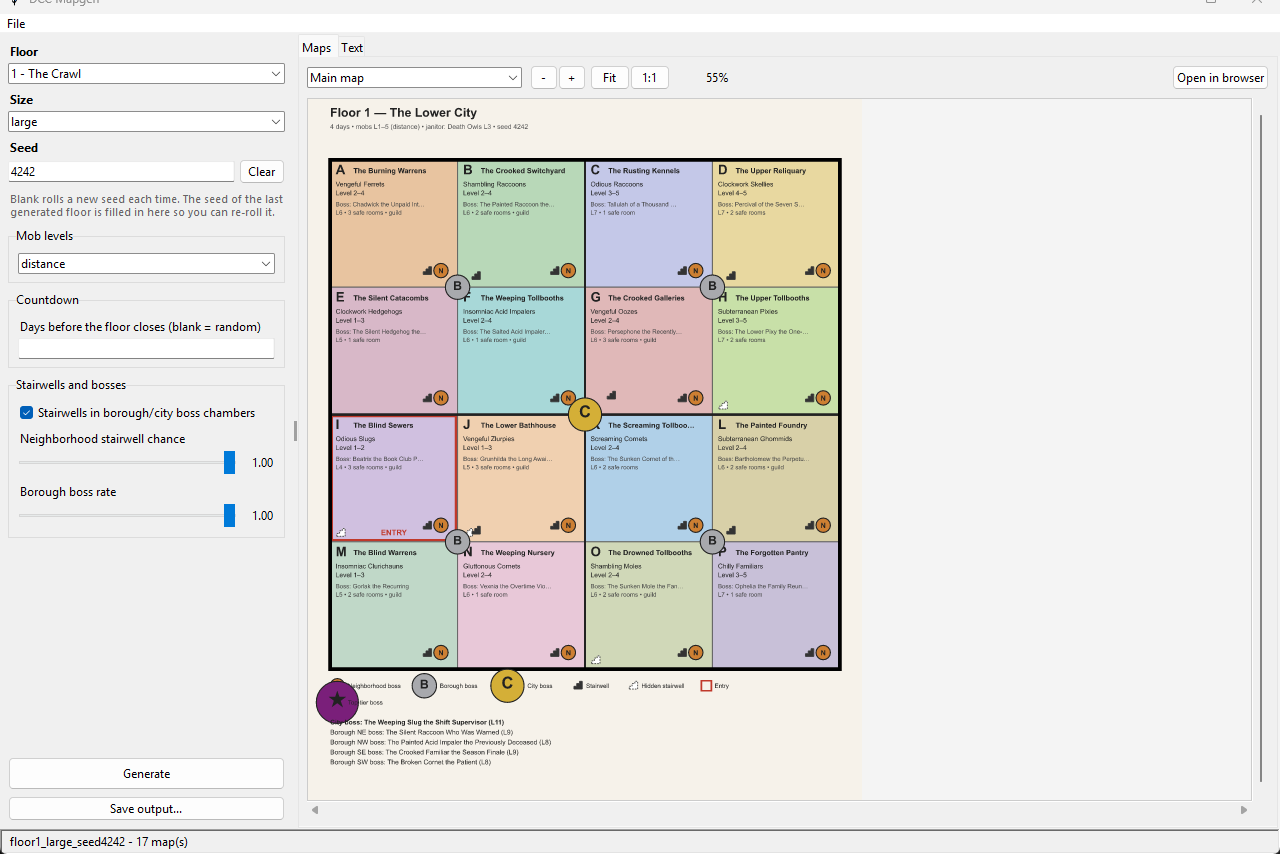
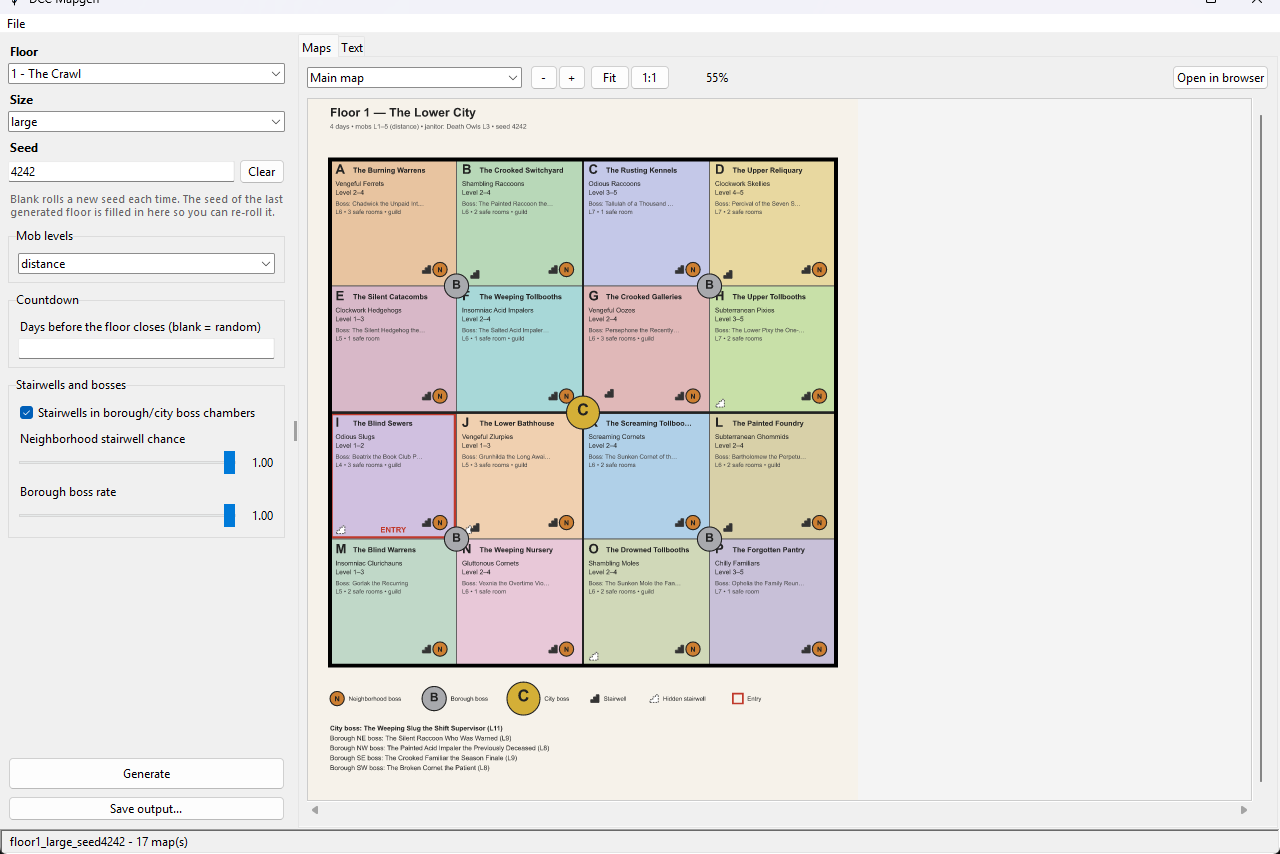
fix: flow the floor 1-2 legend instead of pinning it to fixed offsets
The legend put its entries at hardcoded x offsets across two fixed rows, and the
second row sat only 30px below the first. The top-tier marker is a radius-38
circle, so it reached 8px above its own row's centre line and landed on top of the
first row's neighborhood marker and its "Neighborhood boss" label -- and, being
centred at x+13, swallowed its own label too.

That second row was also drawn unconditionally, so every size below huge showed a
top-tier boss in the key that the map does not contain. Small maps were the worst
case: no borough, city or top boss anywhere on the floor, all four tiers in the key.

The legend is now built from the markers the map actually uses and flowed into as
many rows as the image width needs, with each row spaced by the tallest marker in
it. Laying it out before emitting anything lets the image height follow the result
rather than a fixed 110px allowance.

Only floor 1-2 main maps change: 0 Markdown files and no other floor's or room
map's SVG differs, and the same seed still reproduces the same output.

Also in this commit, so the desktop app ships on Linux too:
- the Linux release job builds and uploads dcc_mapgen_gui alongside the CLI,
  installing Tk and running the smoke test under xvfb since the runner is headless
- the checks moved into dcc_mapgen_gui.selftest(), reachable as --self-test, so CI
  can exercise the *packaged* build; a Tk that failed to bundle only shows up when
[…]

Changed region(s): [[0.25, 0.1827, 0.6562, 0.9133], [0.25, 0.1218, 0.4062, 0.1522]]

diff --git a/dcc_mapgen.py b/dcc_mapgen.py
@@ -871,8 +871,63 @@ def _stair_icon(x, y, hidden=False):
     pts = f"{x},{y+14} {x},{y+9} {x+5},{y+9} {x+5},{y+4} {x+10},{y+4} {x+10},{y} {x+15},{y} {x+15},{y+14}"
     return f'<polygon points="{pts}" fill="{fill}" stroke="#333" stroke-width="1.5"{dash}/>'
 
+LEGEND_GAP = 28        # horizontal space between legend entries
+LEGEND_ROW_GAP = 12    # vertical space between legend rows
+BOSS_R = {"neighborhood": 13, "borough": 22, "city": 30, "top": 38}
+
+
+def _legend_entries(fl) -> List[Tuple[str, object, str]]:
+    """(kind, detail, label) for each marker this map actually uses.
+
+    Only listing what is on the map keeps a small floor from advertising the city
+    and top-tier bosses it does not have -- every size below huge used to show all
+    four boss tiers in the key regardless."""
+    out = [("boss", "neighborhood", "Neighborhood boss")]
+    if fl.borough_bosses:
+        out.append(("boss", "borough", "Borough boss"))
+    if fl.city_bosses:
+        out.append(("boss", "city", "City boss"))
+    if fl.top_boss:
+        out.append(("boss", "top", f"{fl.top_tier_name or 'Top-tier'} boss"))
+    out.append(("stair", False, "Stairwell"))
+    if any(nb.hidden_stairs for nb in fl.neighborhoods):
+        out.append(("stair", True, "Hidden stairwell"))
+    out.append(("entry", None, "Entry"))
+    return out
+
+
+def _legend_half(kind, detail) -> float:
+    """Half the height (and width) of one legend marker."""
+    if kind == "boss":
+        return BOSS_R[detail]
+    return 8.0 if kind == "stair" else 9.0
+
+
+def _legend_width(entry) -> float:
+    kind, detail, label = entry
+    # 6.2 px/char approximates 11px Helvetica closely enough to flow rows with.
+    return 2 * _legend_half(kind, detail) + 8 + len(label) * 6.2 + LEGEND_GAP
+
+
+def _legend_layout(entries, avail: float):
+    """Flow entries into rows no wider than `avail`, as (rows, total height)."""
+    rows, cur, cur_w = [], [], 0.0
+    for e in entries:
+        w = _legend_width(e)
+        if cur and cur_w + w > avail:
+            rows.append(cur)
+            cur, cur_w = [], 0.0
+        cur.append(e)
+        cur_w += w
+    if cur:
+        rows.append(cur)
+    height = sum(max(_legend_half(k, d) for k, d, _ in row) * 2 for row in rows)
+    height += LEGEND_ROW_GAP * (len(rows) - 1)
+    return rows, height
+
+
 def _boss_marker(cx, cy, tier, label):
-    r = {"neighborhood": 13, "borough": 22, "city": 30, "top": 38}[tier]
+    r = BOSS_R[tier]
     color = {"neighborhood": "#cd7f32", "borough": "#a8a9ad", "city": "#d4af37", "top": "#7a1f7a"}[tier]
     out = [f'<circle cx="{cx}" cy="{cy}" r="{r}" fill="{color}" stroke="#222" stroke-width="2"/>']
     glyph = {"neighborhood": "N", "borough": "B", "city": "C", "top": "★"}[tier]
@@ -883,7 +938,10 @@ def render_svg(fl: Floor, boss_stairs: bool) -> str:
     n = fl.grid
     W = max(PAD * 2 + CELL * n, 800)
     key_lines = len(fl.borough_bosses) + len(fl.city_bosses) + (1 if fl.top_boss else 0)
-    H = HEADER + PAD + CELL * n + LEGEND + 18 * key_lines + PAD
+    # The legend is laid out before anything is emitted, because how many rows it
+    # flows into decides the image height.
+    legend_rows, legend_h = _legend_layout(_legend_entries(fl), W - PAD * 2)
+    H = HEADER + PAD + CELL * n + 30 + legend_h + 28 + 18 * key_lines + PAD
     o = [f'<svg xmlns="http://www.w3.org/2000/svg" width="{W}" height="{H}" '
          f'font-family="Helvetica, Arial, sans-serif">',
          f'<rect width="{W}" height="{H}" fill="#f6f2ea"/>']
@@ -966,27 +1024,32 @@ def render_svg(fl: Floor, boss_stairs: bool) -> str:
         if boss_stairs and fl.top_boss.has_stairwell:
             o.append(_stair_icon(cx + 44, cy - 46))
 
-    # Legend
+    # Legend. Entries were previously pinned to hardcoded offsets on two fixed rows,
+    # which put the top-tier circle (r=38, centred just 30px below a row whose city
+    # circle already reaches 30px down) on top of the first row's marker and label.
+    # Flowing them instead keeps every marker clear of its neighbours at any size.
     ly = oy + CELL * n + 30
-    lx = PAD
-    o.extend(_boss_marker(lx + 13, ly, "neighborhood", ""))
-    o.append(_text(lx + 32, ly + 4, "Neighborhood boss", size=11))
-    o.extend(_boss_marker(lx + 170, ly, "borough", ""))
-    o.append(_text(lx + 198, ly + 4, "Borough boss", size=11))
-    o.extend(_boss_marker(lx + 320, ly, "city", ""))
-    o.append(_text(lx + 356, ly + 4, "City boss", size=11))
-    o.append(_stair_icon(lx + 440, ly - 8))
-    o.append(_text(lx + 462, ly + 4, "Stairwell", size=11))
-    o.append(_stair_icon(lx + 540, ly - 8, hidden=True))
-    o.append(_text(lx + 562, ly + 4, "Hidden stairwell", size=11))
-    o.append(f'<rect x="{lx+670}" y="{ly-9}" width="18" height="18" fill="none" stroke="#c0392b" stroke-width="3"/>')
-    o.append(_text(lx + 694, ly + 4, "Entry", size=11))
-    ly2 = ly + 30
-    o.extend(_boss_marker(lx + 13, ly2, "top", ""))
-    o.append(_text(lx + 32, ly2 + 4, f"{fl.top_tier_name or 'Top-tier'} boss", size=11))
+    y = prev_half = 0.0
+    for i, row in enumerate(legend_rows):
+        half = max(_legend_half(k, d) for k, d, _ in row)
+        y = ly + half if i == 0 else y + prev_half + LEGEND_ROW_GAP + half
+        x = float(PAD)
+        for kind, detail, label in row:
+            h = _legend_half(kind, detail)
+            if kind == "boss":
+                o.extend(_boss_marker(x + h, y, detail, ""))
+            elif kind == "stair":
+                o.append(_stair_icon(x + h - 7.5, y - 7, hidden=detail))
+            else:
+                o.append(f'<rect x="{x}" y="{y-9}" width="18" height="18" fill="none" '
+                         f'stroke="#c0392b" stroke-width="3"/>')
+            o.append(_text(x + 2 * h + 8, y + 4, label, size=11))
+            x += _legend_width((kind, detail, label))
+        prev_half = half
 
     # Boss key
-    ky = ly2 + 40
+    lx = PAD
+    ky = y + prev_half + 28
     if fl.top_boss:
         o.append(_text(lx, ky, f"{fl.top_tier_name} boss: {fl.top_boss.name} (L{fl.top_boss.level})",
                        size=12, weight="bold"))

diff --git a/dcc_mapgen_gui.py b/dcc_mapgen_gui.py
@@ -15,7 +15,9 @@ import base64
 import os
 import queue
 import re
+import sys
 import threading
+import time
 import tkinter as tk
 import traceback
 import webbrowser
@@ -660,7 +662,93 @@ def _ask_label(parent):
     return out.get("v")
 
 
+def selftest() -> int:
+    """Drive the real App through a generate and check the results arrived.
+
+    This lives in the app rather than beside it so that `dcc_mapgen_gui --self-test`
+    exercises the *frozen* build: a Tk that PyInstaller failed to bundle only shows
+    up when the packaged binary runs, never when the source does. Returns an exit
+    code, and is pumped with update() rather than mainloop() so it can drive the app
+    and still return -- generation and rasterizing hand their results back through
+    the app's queue, which the pump is what drains.
+    """
+    timeout = 120
+
+    def say(msg):
+        # A --windowed PyInstaller build has no stdout to write to, and the exit
+        # code is what CI checks anyway, so never let logging sink the test.
+        try:
+            print(msg)
+        except Exception:                                  # noqa: BLE001
+            pass
+
+    app = App()
+    app.update()
+
+    def pump(seconds, until):
+        end = time.time() + seconds
+        while time.time() < end:
+            app.update()
+            if until():
+                return True
+            time.sleep(0.02)
+        return False
+
+    failures = []
+
+    def check(cond, msg):
+        say(("  ok   " if cond else "  FAIL ") + msg)
+        if not cond:
+            failures.append(msg)
+
+    say("floor 1 / large / seed 4242")
+    app.floor.set(FLOOR_LABELS[1])
+    app._sync_floor()
+    app.size.set("large")
+    app.seed.set("4242")
+    app.update()
+    app.generate()
+
+    if not pump(timeout, lambda: app.result is not None):
+        say("  FAIL generate finished")
+        app.destroy()
+        return 1
+    say("  ok   generate finished")
+
+    res = app.result
+    check(res.seed == 4242, f"honored the seed (got {res.seed})")
+    check(len(res.svgs) == 17, f"17 maps for a large floor 1 (got {len(res.svgs)})")
+    check(len(res.markdown) > 5000, f"markdown written ({len(res.markdown)} chars)")
+    check(len(app.text.get("1.0", "end")) > 5000, "markdown reached the Text tab")
+    check(app.seed.get() == "4242", "seed box shows the seed used")
+
+    if resvg_py is None:
+        say("  skip  preview render (resvg-py not installed)")
+    else:
+        check(pump(timeout, lambda: app.view._photo is not None), "preview rasterized")
+        if app.view._photo is not None:
+            check(app.view._photo.width() > 100,
+                  f"preview is a real image ({app.view._photo.width()}px wide)")
+
+    # An option combination the generator must reject rather than crash on.
+    errs = []
+    messagebox.showerror = lambda title, msg, **kw: errs.append(msg)
+    app.floor.set(FLOOR_LABELS[3])
+    app._sync_floor()
+    app.size.set("continent")
+    app.update()
+    app.generate()
+    pump(30, lambda: bool(errs))
+    check(bool(errs), "bad floor/size combination is reported, not crashed on")
+
+    app.destroy()
+    say(("FAILED: " + "; ".join(failures)) if failures else "gui ok")
+    return 1 if failures else 0
+
+
 def main():
+    if "--self-test" in sys.argv[1:]:
+        sys.exit(selftest())
     app = App()
     app.mainloop()
 

diff --git a/gui_smoke_test.py b/gui_smoke_test.py
@@ -1,88 +1,17 @@
 #!/usr/bin/env python3
-"""Headless-ish smoke test for the desktop app, used by CI and handy locally.
+"""Smoke test for the desktop app, used by CI and handy locally.
 
-Builds the real App, drives a generate through it, and checks that the Markdown,
-the map list and the rendered preview all arrived. Exits non-zero on failure.
-
-The app is pumped with update() in a loop instead of mainloop() so the test can
-drive it and still hand control back; generation and rasterizing happen on worker
-threads, which hand results back through the app's queue, so the pump is what
-actually lets those results land.
+The checks themselves live in dcc_mapgen_gui.selftest() so that the same ones run
+against a PyInstaller build via `dcc_mapgen_gui --self-test`; this is just the
+convenient way to run them from a source checkout.
 
 Run with:  python gui_smoke_test.py
+On a headless Linux box:  xvfb-run -a python gui_smoke_test.py
 """
 
 import sys
-import time
 
-import dcc_mapgen_gui as g
-
-TIMEOUT = 120
-
-
-def main() -> int:
-    app = g.App()
-    app.update()
-
-    def pump(seconds, until):
-        end = time.time() + seconds
-        while time.time() < end:
-            app.update()
-            if until():
-                return True
-            time.sleep(0.02)
-        return False
-
-    failures = []
-
-    def check(cond, msg):
-        print(("  ok   " if cond else "  FAIL ") + msg)
-        if not cond:
-            failures.append(msg)
-
-    print("floor 1 / large / seed 4242")
-    app.floor.set(g.FLOOR_LABELS[1])
-    app._sync_floor()
-    app.size.set("large")
-    app.seed.set("4242")
-    app.update()
-    app.generate()
-
-    check(pump(TIMEOUT, lambda: app.result is not None), "generate finished")
-    if app.result is None:
-        app.destroy()
-        return 1
-
-    res = app.result
-    check(res.seed == 4242, f"honored the seed (got {res.seed})")
-    check(len(res.svgs) == 17, f"17 maps for a large floor 1 (got {len(res.svgs)})")
-    check(len(res.markdown) > 5000, f"markdown written ({len(res.markdown)} chars)")
-    check(len(app.text.get("1.0", "end")) > 5000, "markdown reached the Text tab")
-    check(app.seed.get() == "4242", "seed box shows the seed used")
-
-    if g.resvg_py is None:
-        print("  skip  preview render (resvg-py not installed)")
-    else:
-        check(pump(TIMEOUT, lambda: app.view._photo is not None), "preview rasterized")
-        if app.view._photo is not None:
-            check(app.view._photo.width() > 100,
-                  f"preview is a real image ({app.view._photo.width()}px wide)")
-
-    # An option combination the generator must reject rather than crash on.
-    errs = []
-    g.messagebox.showerror = lambda title, msg, **kw: errs.append(msg)
-    app.floor.set(g.FLOOR_LABELS[3])
-    app._sync_floor()
-    app.size.set("continent")
-    app.update()
-    app.generate()
-    pump(30, lambda: bool(errs))
-    check(bool(errs), "bad floor/size combination is reported, not crashed on")
-
-    app.destroy()
-    print(("FAILED: " + "; ".join(failures)) if failures else "gui ok")
-    return 1 if failures else 0
-
+from dcc_mapgen_gui import selftest
 
 if __name__ == "__main__":
-    sys.exit(main())
+    sys.exit(selftest())

diff --git a/README.md b/README.md
@@ -45,7 +45,9 @@ python dcc_mapgen_gui.py          # ...or the desktop app
 
 ### Option B: standalone executable (Windows or Linux)
 
-Check the [Releases](../../releases) page for a bundled `.exe` (Windows) or binary (Linux) — no Python install required. Both are built automatically from this repo via GitHub Actions.
+Check the [Releases](../../releases) page for bundled builds — no Python install required. Each platform ships two: `dcc_mapgen` (the command line) and `dcc_mapgen_gui` (the [desktop app](#desktop-app)). All are built automatically from this repo via GitHub Actions.
+
+On Linux the desktop app needs your distribution's Tk package if it isn't already present (`sudo apt install python3-tk` on Debian/Ubuntu); the command-line build needs nothing.
 
 ## Desktop app
 
@@ -73,6 +75,10 @@ same `floorN_size_seedS.md` plus map files that `--save` produces on the command
 The inline preview uses `resvg-py` (`pip install -r requirements.txt`). Without it the app
 still generates and saves everything — maps just save as SVG, and **Open in browser**
 shows the map instead of the built-in preview.
+
+`python dcc_mapgen_gui.py --self-test` (or `python gui_smoke_test.py`) drives the app
+through a generate and checks the write-up, the map list and the rendered preview all
+arrive — this is what CI runs against the packaged builds.
 
 ## Usage
 
